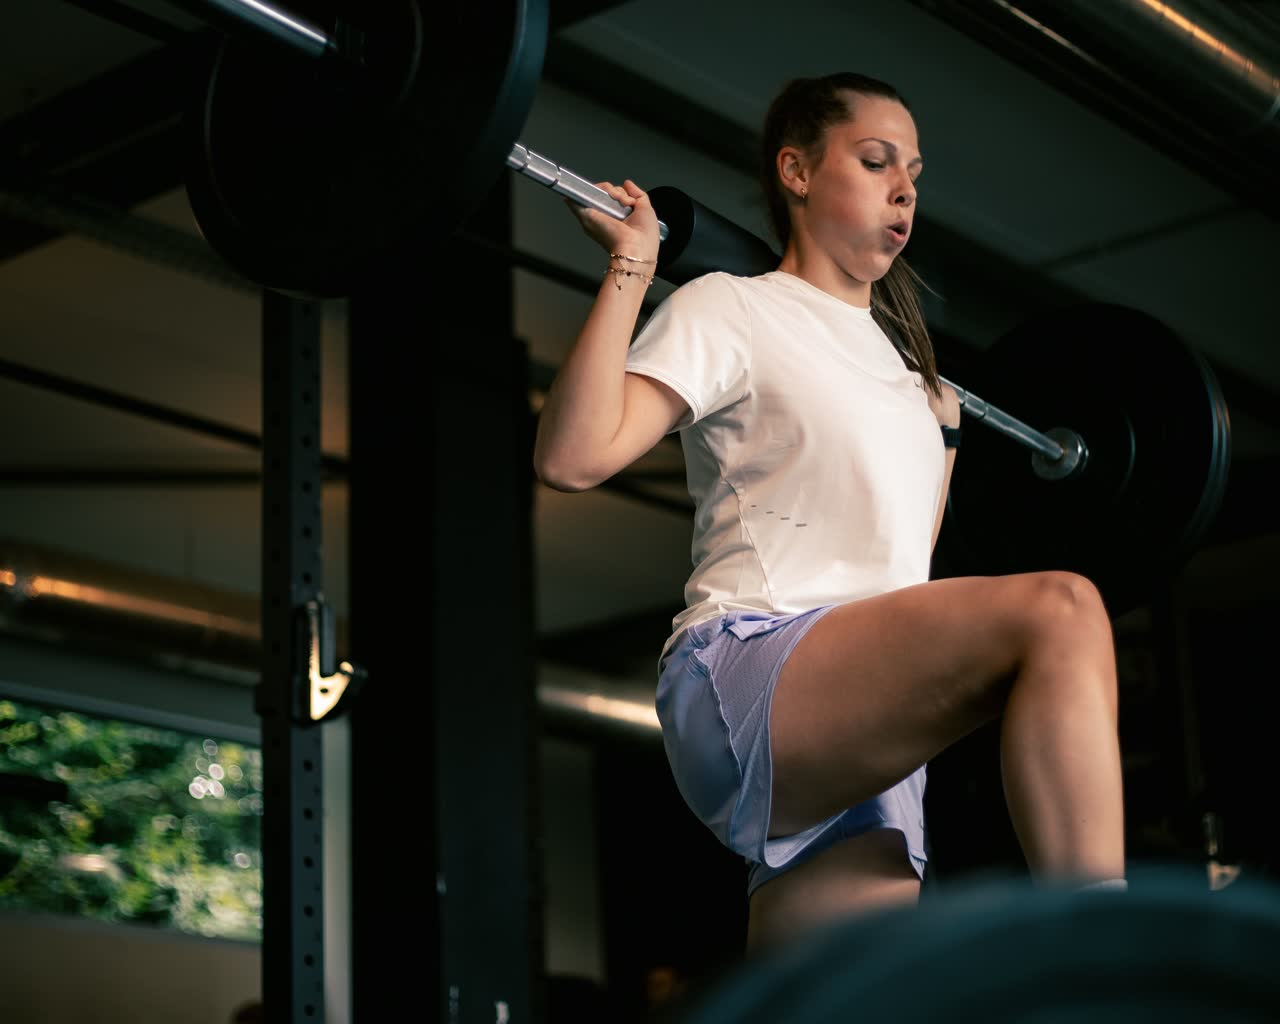
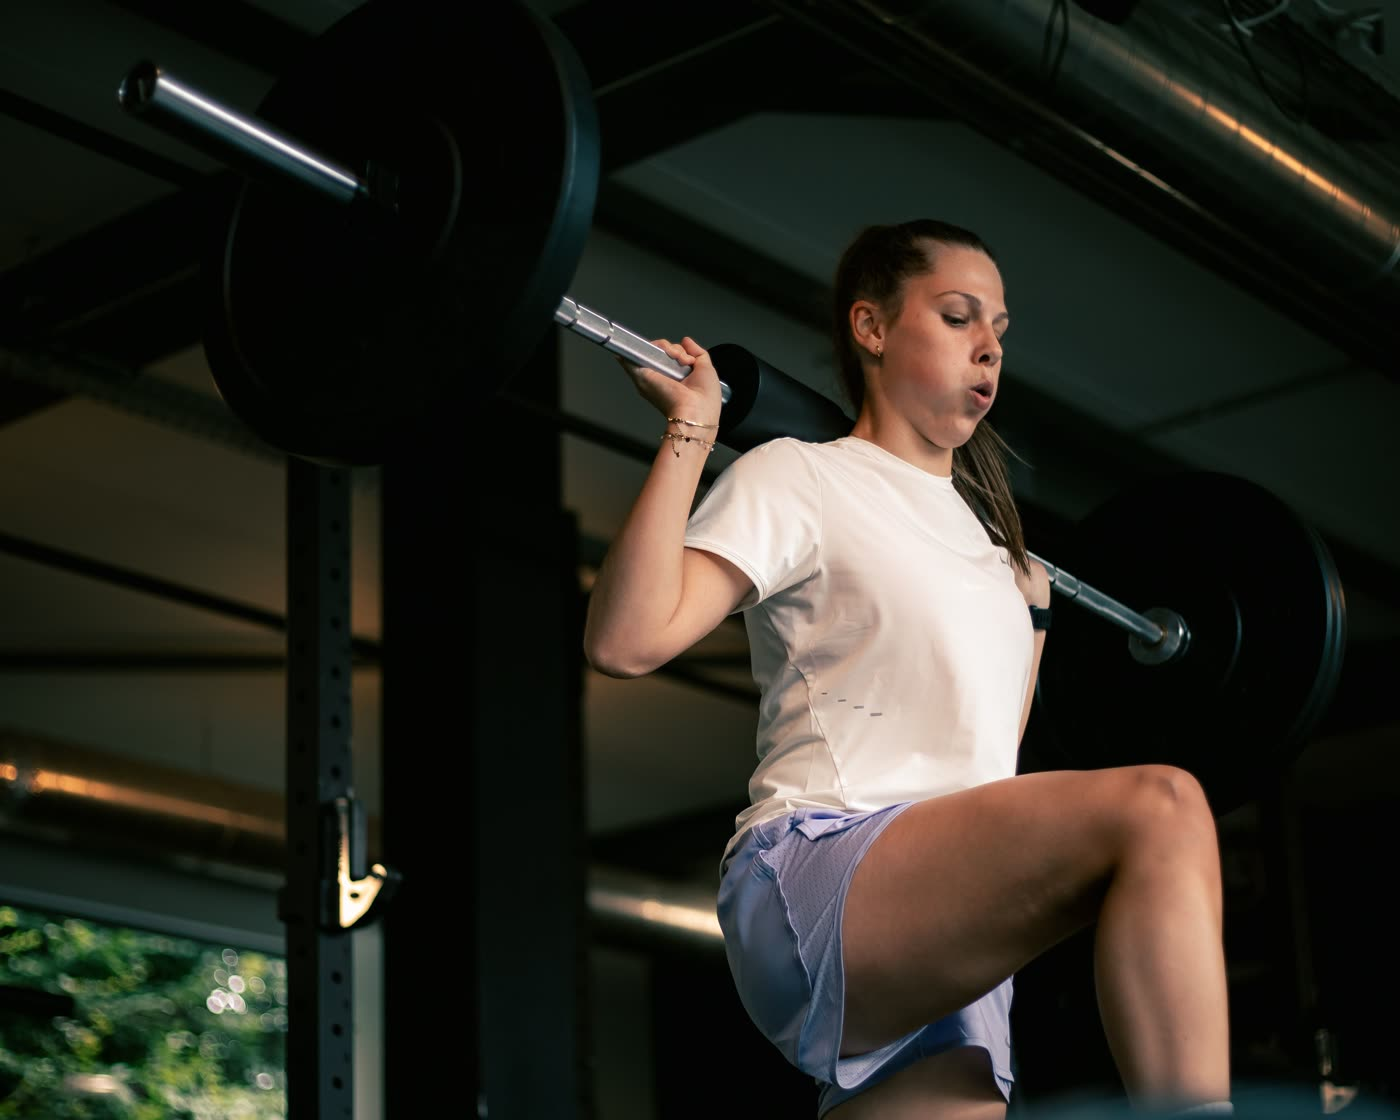
Lock every photo frame to its source ratio and fix the header at all widths
Foto's die niet klopten
De oorzaak was niet de bestanden maar de kaders. In sectie 2 kreeg het
fotokader zijn hoogte van de tekstkolom ernaast, waardoor de verhouding
meeschoof met de schermbreedte: 1,26 op desktop, 0,67 op tablet, 1,33 op
telefoon. Een foto die op 5:4 gesneden is, verliest dan op tablet de helft van
zijn breedte. Het kader ligt nu vast op 5:4 op elk scherm.

Bij de etalage was het erger: de rechterpanelen waren 0,54 breed op desktop en
0,50 op tablet. Die indeling is vervangen door één staand beeld links (3:4) en
twee liggende rechts (3:2), die samen exact even hoog uitkomen. Alles is
opnieuw gesneden op precies die maten, met het brandpunt op de mensen in plaats
van op de vloer of het plafond. Gemeten over 320 tot 1920 px komt elk kader nu
overeen met zijn bron.

Performance had vier panelen in een indeling die er drie aankan. De oefenzaal
komt daar al terug in het aanbod en het traject, dus het ijsbad neemt die plek
in: herstel is voor deze doelgroep het onderscheid.

Achtergrond bij het formulier op performance was een close-up van kettlebells,
onleesbaar achter een donkere sluier. Vervangen door een zaalopname met diepte.

Keuzepagina
De navigatie staat rechts in plaats van gecentreerd. Ze paste bovendien niet op
320, 768 en 834 px: de links komen nu pas vanaf 1024 tevoorschijn, het
telefoonnummer krimpt tot "Bel" onder 640 en de knop tot "Boeken".

Responsief nagemeten over veertien breedtes van 320 tot 1920 px op alle drie de
[…]

diff --git a/performance/index.html b/performance/index.html
@@ -277,7 +277,7 @@
   <article class="border-t border-bone/15">
     <div class="mx-auto max-w-[1500px] px-5 md:px-10">
       <div class="grid lg:grid-cols-2">
-        <div class="media-blend relative overflow-hidden aspect-[4/3] lg:aspect-auto lg:min-h-[540px] reveal" data-imgwrap>
+        <div class="media-blend relative overflow-hidden aspect-[5/4] reveal" data-imgwrap>
           <img src="../assets/img/performance/screening.jpg" alt="Atlete bekijkt haar testresultaten op het scherm tijdens de screening."
                class="photo absolute inset-0" loading="lazy" decoding="async"
                onerror="imgFail(this,'D1')">
@@ -328,7 +328,7 @@
             </div>
           </div>
         </div>
-        <div class="media-blend media-blend-left relative overflow-hidden aspect-[4/3] lg:aspect-auto lg:min-h-[540px] order-1 lg:order-2 reveal reveal-d1" data-imgwrap>
+        <div class="media-blend media-blend-left relative overflow-hidden aspect-[5/4] order-1 lg:order-2 reveal reveal-d1" data-imgwrap>
           <img src="../assets/img/performance/krachttraining.jpg" alt="Atlete doet een step-up met halterstang in het rek."
                class="photo absolute inset-0" loading="lazy" decoding="async"
                onerror="imgFail(this,'D2')">
@@ -339,7 +339,7 @@
   <article class="border-t border-bone/15">
     <div class="mx-auto max-w-[1500px] px-5 md:px-10">
       <div class="grid lg:grid-cols-2">
-        <div class="media-blend relative overflow-hidden aspect-[4/3] lg:aspect-auto lg:min-h-[540px] reveal" data-imgwrap>
+        <div class="media-blend relative overflow-hidden aspect-[5/4] reveal" data-imgwrap>
           <img src="../assets/img/performance/return-to-play.jpg" alt="Atlete werkt met een bal op de indoorpiste tijdens de terugkeer naar haar sport."
                class="photo absolute inset-0" loading="lazy" decoding="async"
                onerror="imgFail(this,'D3')">
@@ -390,7 +390,7 @@
             </div>
           </div>
         </div>
-        <div class="media-blend media-blend-left relative overflow-hidden aspect-[4/3] lg:aspect-auto lg:min-h-[540px] order-1 lg:order-2 reveal reveal-d1" data-imgwrap>
+        <div class="media-blend media-blend-left relative overflow-hidden aspect-[5/4] order-1 lg:order-2 reveal reveal-d1" data-imgwrap>
           <img src="../assets/img/performance/sportvoeding.jpg" alt="Coach neemt het voedings- en belastingsplan door met een atlete op een tablet."
                class="photo absolute inset-0" loading="lazy" decoding="async"
                onerror="imgFail(this,'D4')">
@@ -996,23 +996,18 @@
   <div class="grain-layer" aria-hidden="true"></div>
 
   <div class="grain-pin relative z-[3]">
-    <div class="etalage et-4">
+    <div class="etalage">
       <figure class="et-item et-lead">
         <img src="../assets/img/studio-inkom.jpg" alt="De mosmuur met het Credo-logo en de indoorpiste erachter." class="photo" loading="lazy" decoding="async"
              onerror="imgFail(this,'V')">
         <figcaption class="et-cap eyebrow">De inkom</figcaption>
       </figure>
-      <figure class="et-item ">
+      <figure class="et-item">
         <img src="../assets/img/studio-piste.jpg" alt="Atleet versnelt over de piste in de achterste zaal." class="photo" loading="lazy" decoding="async"
              onerror="imgFail(this,'V')">
         <figcaption class="et-cap eyebrow">De piste</figcaption>
       </figure>
-      <figure class="et-item ">
-        <img src="../assets/img/studio-oefenzaal.jpg" alt="De oefenzaal met krachtrek, vrije gewichten en spiegelwand." class="photo" loading="lazy" decoding="async"
-             onerror="imgFail(this,'V')">
-        <figcaption class="et-cap eyebrow">De oefenzaal</figcaption>
-      </figure>
-      <figure class="et-item ">
+      <figure class="et-item">
         <img src="../assets/img/studio-ijsbad.jpg" alt="Het ijsbad en de herstelruimte achteraan de praktijk." class="photo" loading="lazy" decoding="async"
              onerror="imgFail(this,'V')">
         <figcaption class="et-cap eyebrow">Herstel</figcaption>

diff --git a/index.html b/index.html
@@ -136,24 +136,28 @@
      ============================================================ -->
 <header id="site-header" class="fixed top-0 inset-x-0 z-50 bg-ink border-b border-bone/15">
   <div class="mx-auto max-w-[1500px] px-5 md:px-10">
-    <div class="flex items-center justify-between h-[72px] gap-4">
+    <div class="flex items-center h-[72px] gap-4">
 
-      <a href="#top" class="flex items-center gap-3 shrink-0">
+      <a href="#top" class="flex items-center gap-3 min-w-0">
         <span class="display text-[19px] md:text-[22px] tracking-[0.02em] text-bone">CREDO</span>
         <span class="hidden sm:inline-block h-4 w-px bg-bone/25" aria-hidden="true"></span>
         <span class="hidden sm:inline eyebrow eyebrow-light">Rehab &amp; Performance</span>
       </a>
 
-      <nav class="hidden md:flex items-center gap-8" aria-label="Hoofdnavigatie">
-        <a href="rehab/" class="nav-link text-bone">Revalidatie</a>
-        <a href="performance/" class="nav-link text-bone">Performance</a>
-        <a href="tel:+32480628545" class="nav-link text-bone">+32 480 62 85 45</a>
-      </nav>
-
-      <div class="flex items-center gap-3 shrink-0">
-        <a href="tel:+32480628545" class="nav-link text-bone md:hidden">Bel</a>
+      <!-- De links passen pas vanaf 1024 naast de naam en de knop; daaronder
+           blijft alleen het telefoonnummer staan. -->
+      <div class="flex items-center gap-5 lg:gap-8 ml-auto shrink-0">
+        <nav class="hidden lg:flex items-center gap-8" aria-label="Hoofdnavigatie">
+          <a href="rehab/" class="nav-link text-bone">Revalidatie</a>
+          <a href="performance/" class="nav-link text-bone">Performance</a>
+        </nav>
+        <a href="tel:+32480628545" class="nav-link text-bone hidden sm:inline whitespace-nowrap">+32 480 62 85 45</a>
+        <a href="tel:+32480628545" class="nav-link text-bone sm:hidden">Bel</a>
         <a href="https://altagenda.crossuite.com/credokinesitherapie/step1" target="_blank" rel="noopener noreferrer"
-           class="btn btn-bone !py-[10px] !px-5 !text-[11px]">Boek een afspraak</a>
+           class="btn btn-bone !py-[10px] !px-4 sm:!px-5 !text-[11px] whitespace-nowrap">
+          <span class="hidden sm:inline">Boek een afspraak</span>
+          <span class="sm:hidden">Boeken</span>
+        </a>
       </div>
     </div>
   </div>

diff --git a/rehab/index.html b/rehab/index.html
@@ -282,7 +282,7 @@
   <article class="border-t border-bone/15">
     <div class="mx-auto max-w-[1500px] px-5 md:px-10">
       <div class="grid lg:grid-cols-2">
-        <div class="media-blend relative overflow-hidden aspect-[4/3] lg:aspect-auto lg:min-h-[540px] reveal" data-imgwrap>
+        <div class="media-blend relative overflow-hidden aspect-[5/4] reveal" data-imgwrap>
           <img src="../assets/img/rehab/manuele-therapie.jpg" alt="Kinesist stelt geknield een oefentoestel af voor een pati&euml;nt."
                class="photo absolute inset-0" loading="lazy" decoding="async"
                onerror="imgFail(this,'D1')">
@@ -325,7 +325,7 @@
             </a>
           </div>
         </div>
-        <div class="media-blend media-blend-left relative overflow-hidden aspect-[4/3] lg:aspect-auto lg:min-h-[540px] order-1 lg:order-2 reveal reveal-d1" data-imgwrap>
+        <div class="media-blend media-blend-left relative overflow-hidden aspect-[5/4] order-1 lg:order-2 reveal reveal-d1" data-imgwrap>
           <img src="../assets/img/rehab/oefentherapie.jpg" alt="Pati&euml;nt stapt met een halter op een verhoog tijdens de opbouw."
                class="photo absolute inset-0" loading="lazy" decoding="async"
                onerror="imgFail(this,'D2')">
@@ -336,7 +336,7 @@
   <article class="border-t border-bone/15">
     <div class="mx-auto max-w-[1500px] px-5 md:px-10">
       <div class="grid lg:grid-cols-2">
-        <div class="media-blend relative overflow-hidden aspect-[4/3] lg:aspect-auto lg:min-h-[540px] reveal" data-imgwrap>
+        <div class="media-blend relative overflow-hidden aspect-[5/4] reveal" data-imgwrap>
           <img src="../assets/img/rehab/terug-naar-sport.jpg" alt="Pati&euml;nt loopt weer over de indoorpiste van de praktijk."
                class="photo absolute inset-0" loading="lazy" decoding="async"
                onerror="imgFail(this,'D3')">
@@ -856,7 +856,7 @@
   <div class="grain-layer" aria-hidden="true"></div>
 
   <div class="grain-pin relative z-[3]">
-    <div class="etalage et-3">
+    <div class="etalage">
       <figure class="et-item et-lead">
         <img src="../assets/img/studio-inkom.jpg" alt="De mosmuur met het Credo-logo en de indoorpiste erachter." class="photo" loading="lazy" decoding="async"
              onerror="imgFail(this,'V')">

diff --git a/assets/css/credo.css b/assets/css/credo.css
@@ -554,17 +554,23 @@
   }
 
   /* ---------- De vloer: de etalage ---------- */
-  /* Drie of vier beelden over de volle breedte, met één dat meer plek krijgt.
-     Gelijke vakken naast elkaar lezen als een fotostrip; een ongelijke deling
-     leest als een etalage. Op een telefoon gaan ze onder elkaar. */
+  /* De vorige opzet gaf de rechterpanelen een verhouding van 0,54 op desktop
+     en 0,50 op tablet: zo smal dat elke foto voor de helft weggesneden werd.
+     Nu ligt elke verhouding vast en zijn de bronnen op precies die maat
+     gesneden, zodat er niets meer uitgerekt of afgekapt wordt.
+       links  een staand beeld, 3:4
+       rechts twee liggende beelden, 3:2, samen even hoog als links. */
   .etalage {
     display: grid; gap: 2px; background: rgba(244,241,234,.15);
     grid-template-columns: 1fr;
   }
   .et-item {
     position: relative; margin: 0; overflow: hidden;
-    aspect-ratio: 4 / 3; background: var(--ink);
+    aspect-ratio: 3 / 2; background: var(--ink);
   }
+  /* Ook op een telefoon houdt het staande beeld zijn eigen verhouding, anders
+     wordt er alsnog een derde van weggesneden. */
+  .et-lead { aspect-ratio: 3 / 4; }
   .et-item .photo {
     width: 100%; height: 100%; object-fit: cover; display: block;
     transition: transform 1.2s cubic-bezier(.22,.61,.36,1), filter .6s ease;
@@ -576,16 +582,10 @@
     border-top: 1px solid rgba(244,241,234,.18);
     border-right: 1px solid rgba(244,241,234,.18);
   }
-  @media (min-width: 640px) {
-    .etalage    { grid-template-columns: repeat(2, 1fr); }
-    .et-item    { aspect-ratio: 3 / 4; }
-    .et-lead    { grid-column: span 2; aspect-ratio: 16 / 10; }
-  }
-  @media (min-width: 1024px) {
-    .et-3 { grid-template-columns: 1.55fr 1fr 1fr; }
-    .et-4 { grid-template-columns: 1.6fr 1fr 1fr 1fr; }
-    .etalage .et-item, .etalage .et-lead { grid-column: auto; aspect-ratio: auto; }
-    .etalage { height: clamp(430px, 64vh, 720px); }
+  @media (min-width: 768px) {
+    .etalage { grid-template-columns: 1fr 1fr; }
+    .et-lead { grid-row: span 2; aspect-ratio: 3 / 4; }
+    .et-item:not(.et-lead) { aspect-ratio: 3 / 2; }
   }
   @media (hover: hover) and (pointer: fine) {
     .et-item:hover .photo { transform: scale(1.06); filter: grayscale(1) contrast(1.14); }
